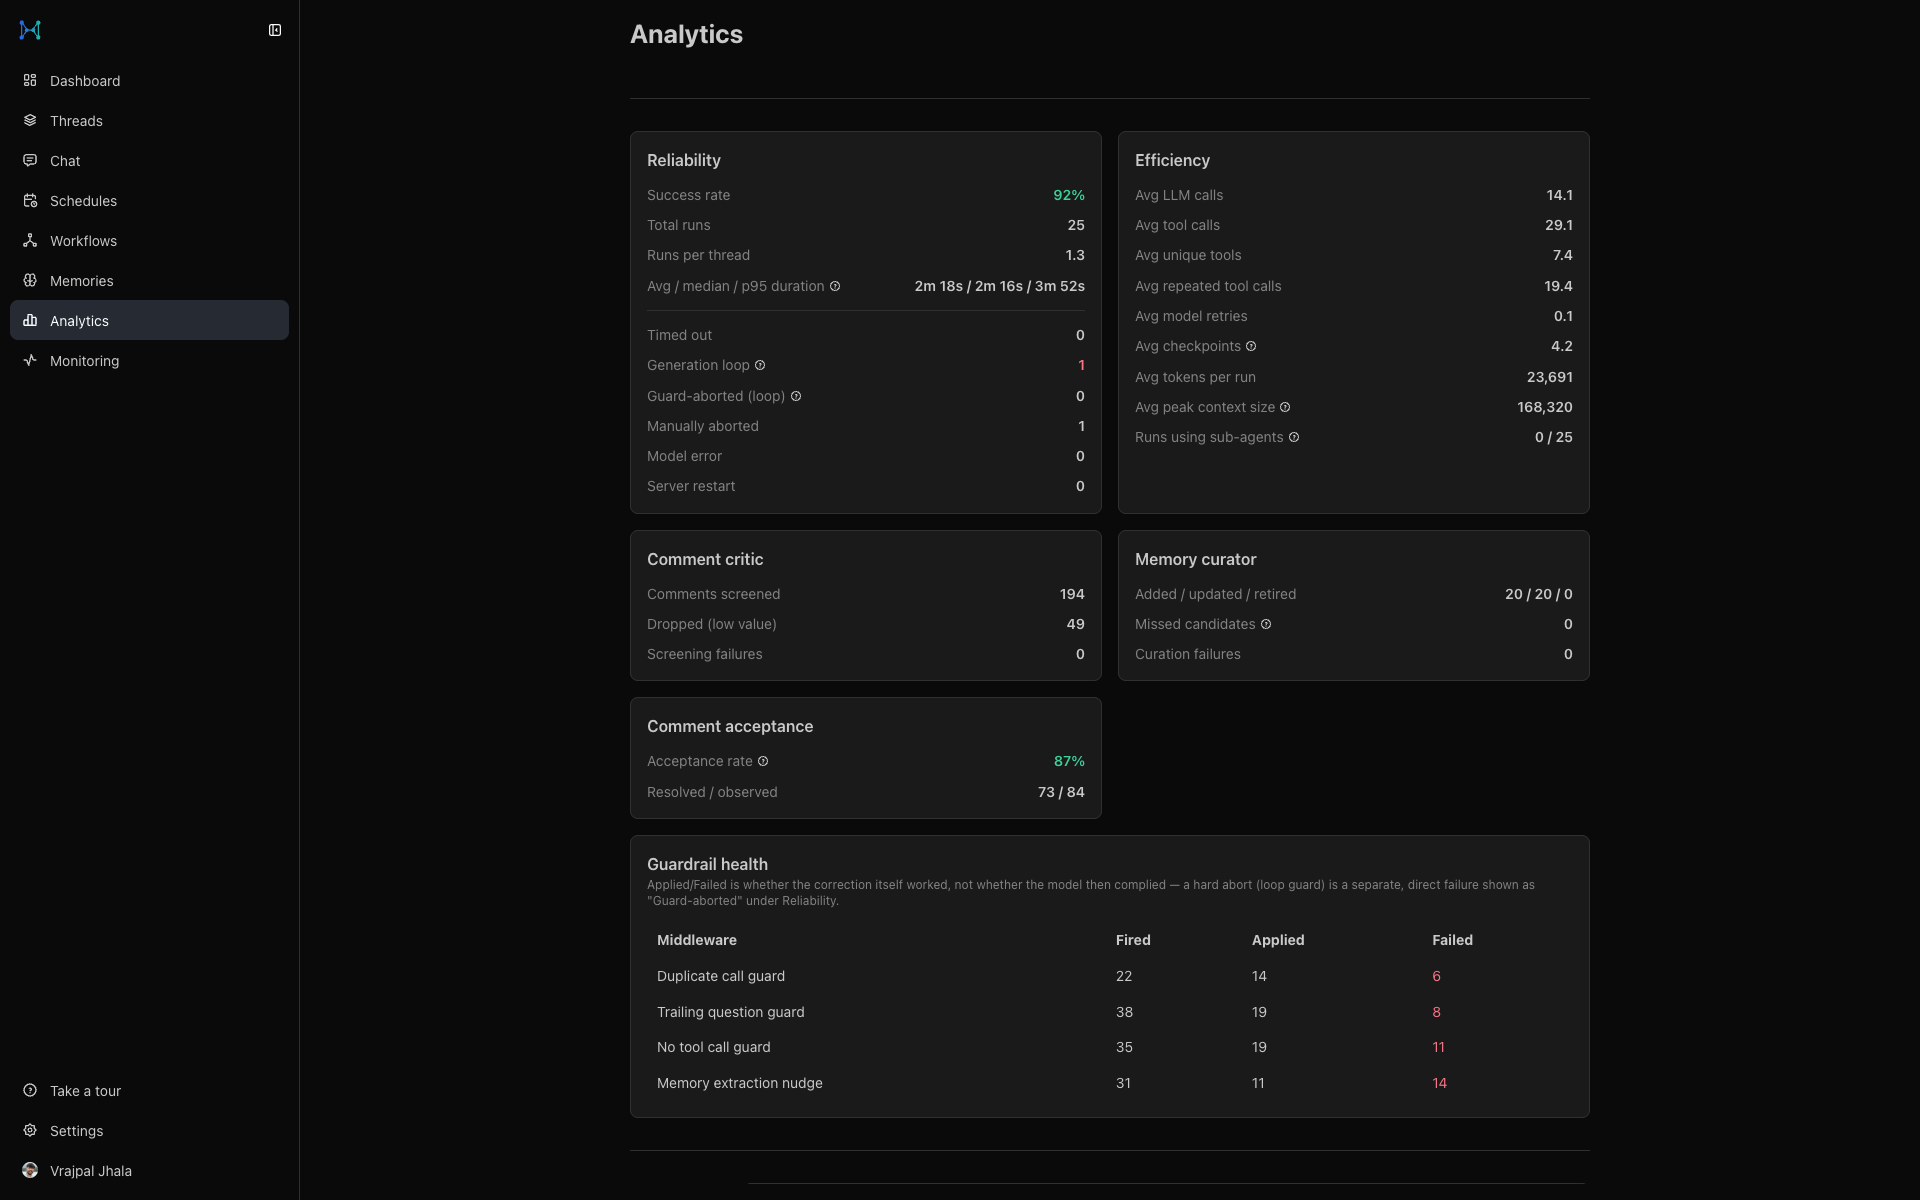
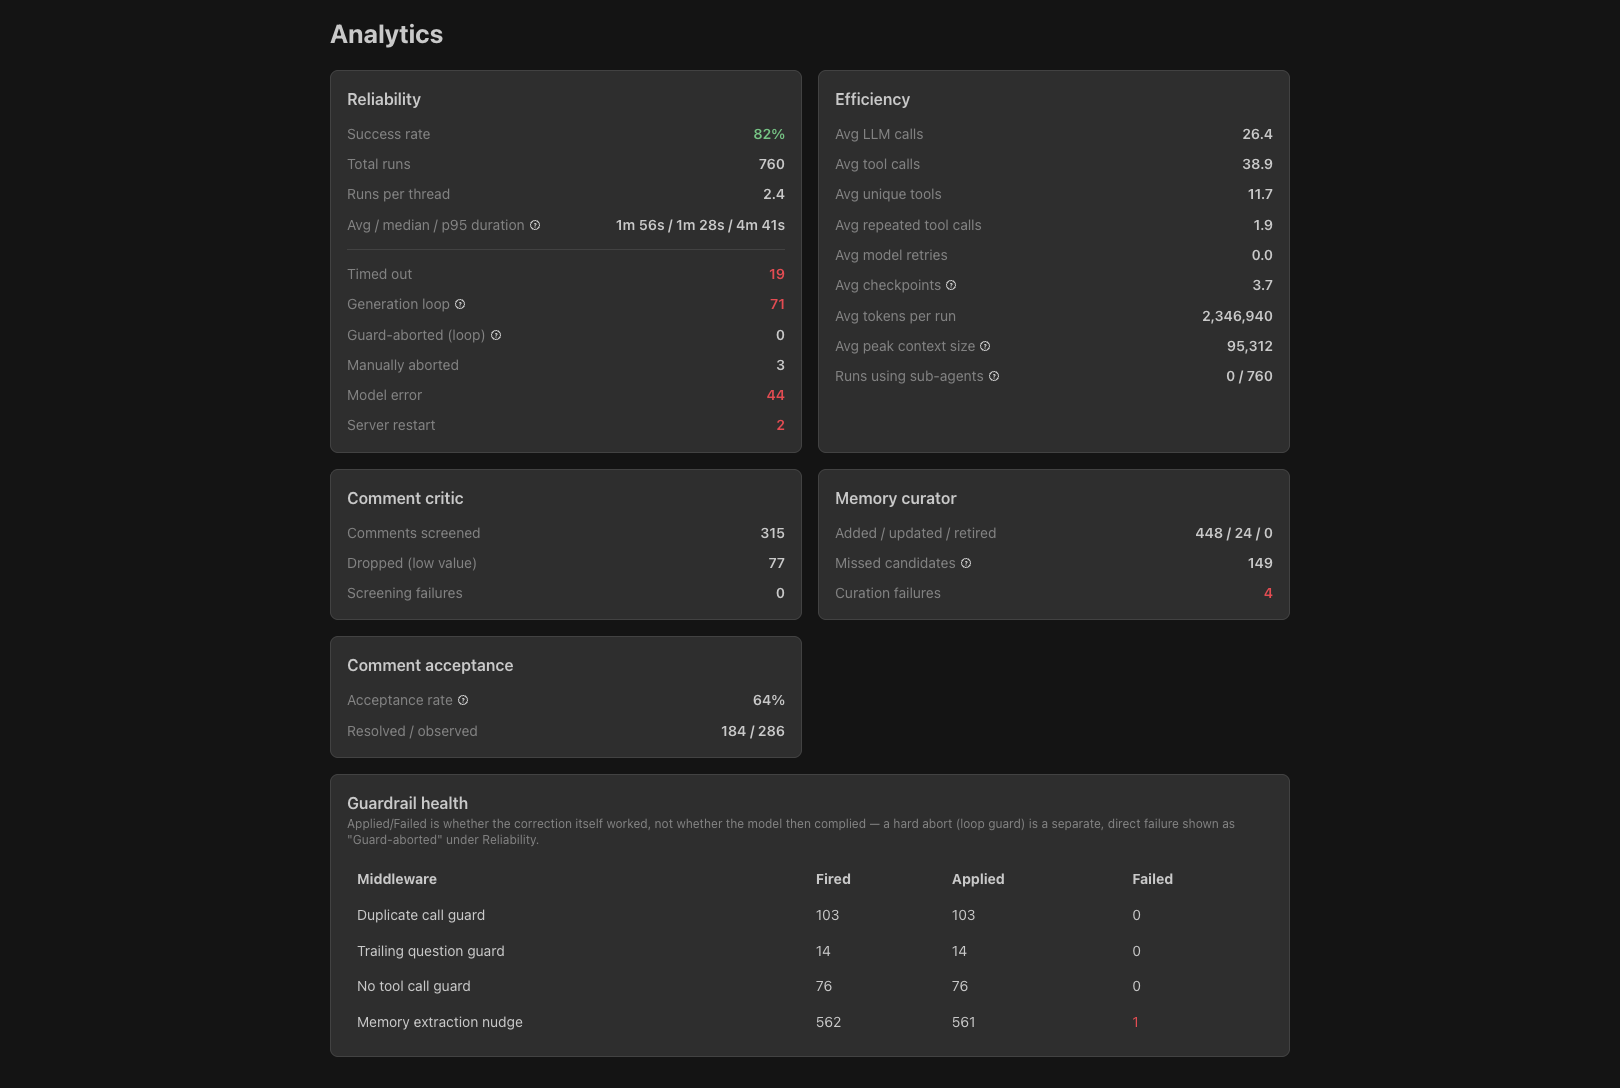
docs: reposition product copy and refresh screenshots

diff --git a/frontend/index.html b/frontend/index.html
@@ -4,7 +4,7 @@
     <meta charset="UTF-8" />
     <meta name="viewport" content="width=device-width, initial-scale=1.0" />
     <link rel="icon" type="image/svg+xml" href="/favicon.svg" />
-    <title>langgraph-harness - Engineering Context Platform</title>
+    <title>langgraph-harness - AI Coding Agent Platform for GitLab</title>
   </head>
   <body>
     <div id="root"></div>

diff --git a/frontend/src/pages/login/index.tsx b/frontend/src/pages/login/index.tsx
@@ -56,7 +56,7 @@ const LoginPage = () => {
         </div>
         <Stack align="center" gap={4}>
           <Title order={1} className="login-page__title">
-            The engineering context platform for GitLab
+            The AI coding agent platform for GitLab
           </Title>
           <Text
             c="dimmed"

diff --git a/docs/.vitepress/theme/components/Screencast.vue b/docs/.vitepress/theme/components/Screencast.vue
@@ -91,6 +91,7 @@ function formatTime(seconds: number) {
       v-show="started"
       ref="videoEl"
       :src="src"
+      :aria-label="alt ?? 'Screencast'"
       preload="none"
       class="screencast-media screencast-media--video"
       @click="togglePlay"

diff --git a/docs/index.md b/docs/index.md
@@ -3,8 +3,8 @@ layout: home
 
 hero:
   name: langgraph-harness
-  text: The engineering context platform for GitLab
-  tagline: Reviews merge requests, resolves issues autonomously, and chats with full project context — remembering what matters so every run builds on the last.
+  text: AI coding agent platform for GitLab
+  tagline: Self-hosted, built with LangGraph. Reviews merge requests, resolves issues autonomously, and chats with full project context — remembering what matters so every run builds on the last.
   image:
     src: /logo.svg
     alt: langgraph-harness
@@ -14,9 +14,6 @@ hero:
     - theme: brand
       text: Get Started
       link: /guide/getting-started
-    - theme: alt
-      text: Features
-      link: /features
     - theme: alt
       text: View on GitHub
       link: https://github.com/vrajpal-jhala/langgraph-harness
@@ -68,7 +65,7 @@ npm run dev
   </div>
   <div class="browser-frame">
     <div class="browser-frame-bar"><span></span><span></span><span></span></div>
-    <img :src="withBase('/screenshots/analytics-overview.png')" alt="Analytics overview dashboard" loading="lazy" />
+    <img :src="withBase('/screenshots/analytics-overview.png')" alt="Real production analytics dashboard, Sept 2026 snapshot" loading="lazy" />
   </div>
 </section>
 
@@ -117,16 +114,16 @@ npm run dev
     </div>
     <div class="landing-workflow-stage">
       <div class="landing-workflow-panel" id="landing-panel-review">
-        <video src="https://cdn.jsdelivr.net/gh/vrajpal-jhala/langgraph-harness-media@main/mr-review-workflow-preview.mp4" poster="https://cdn.jsdelivr.net/gh/vrajpal-jhala/langgraph-harness-media@main/mr-review-workflow-preview.webp" class="landing-workflow-video" autoplay loop muted playsinline></video>
+        <video src="https://cdn.jsdelivr.net/gh/vrajpal-jhala/langgraph-harness-media@main/mr-review-workflow-preview.mp4" poster="https://cdn.jsdelivr.net/gh/vrajpal-jhala/langgraph-harness-media@main/mr-review-workflow-preview.webp" class="landing-workflow-video" aria-label="Demo: MR Review workflow" autoplay loop muted playsinline></video>
       </div>
       <div class="landing-workflow-panel" id="landing-panel-issue">
-        <video src="https://cdn.jsdelivr.net/gh/vrajpal-jhala/langgraph-harness-media@main/issue-resolve-workflow-preview.mp4" poster="https://cdn.jsdelivr.net/gh/vrajpal-jhala/langgraph-harness-media@main/issue-resolve-workflow-preview.webp" class="landing-workflow-video" autoplay loop muted playsinline></video>
+        <video src="https://cdn.jsdelivr.net/gh/vrajpal-jhala/langgraph-harness-media@main/issue-resolve-workflow-preview.mp4" poster="https://cdn.jsdelivr.net/gh/vrajpal-jhala/langgraph-harness-media@main/issue-resolve-workflow-preview.webp" class="landing-workflow-video" aria-label="Demo: Issue Resolution workflow" autoplay loop muted playsinline></video>
       </div>
       <div class="landing-workflow-panel" id="landing-panel-task">
-        <video src="https://cdn.jsdelivr.net/gh/vrajpal-jhala/langgraph-harness-media@main/task-resolve-workflow-preview.mp4" poster="https://cdn.jsdelivr.net/gh/vrajpal-jhala/langgraph-harness-media@main/task-resolve-workflow-preview.webp" class="landing-workflow-video" autoplay loop muted playsinline></video>
+        <video src="https://cdn.jsdelivr.net/gh/vrajpal-jhala/langgraph-harness-media@main/task-resolve-workflow-preview.mp4" poster="https://cdn.jsdelivr.net/gh/vrajpal-jhala/langgraph-harness-media@main/task-resolve-workflow-preview.webp" class="landing-workflow-video" aria-label="Demo: Task Resolution workflow" autoplay loop muted playsinline></video>
       </div>
       <div class="landing-workflow-panel" id="landing-panel-chat">
-        <video src="https://cdn.jsdelivr.net/gh/vrajpal-jhala/langgraph-harness-media@main/chat-workflow-preview.mp4" poster="https://cdn.jsdelivr.net/gh/vrajpal-jhala/langgraph-harness-media@main/chat-workflow-preview.webp" class="landing-workflow-video" autoplay loop muted playsinline></video>
+        <video src="https://cdn.jsdelivr.net/gh/vrajpal-jhala/langgraph-harness-media@main/chat-workflow-preview.mp4" poster="https://cdn.jsdelivr.net/gh/vrajpal-jhala/langgraph-harness-media@main/chat-workflow-preview.webp" class="landing-workflow-video" aria-label="Demo: Chat workflow" autoplay loop muted playsinline></video>
       </div>
     </div>
   </div>

diff --git a/README.md b/README.md
@@ -4,9 +4,11 @@
 
 # langgraph-harness
 
-**The engineering context platform for GitLab**
+**Self-hosted AI coding agent platform for GitLab, built with LangGraph**
 
 Reviews merge requests, resolves issues autonomously, and chats with full project context — remembering what matters so every run builds on the last.
+
+In active production use since mid-2026 — 979 reviews, 64% comment acceptance rate (Sept 2026, [see snapshot](#screenshots)).
 
 [![License: MIT](https://img.shields.io/badge/license-MIT-blue.svg)](LICENSE)
 [![Node](https://img.shields.io/badge/node-22%2B-339933?logo=node.js&logoColor=white)](package.json)
@@ -14,7 +16,7 @@ Reviews merge requests, resolves issues autonomously, and chats with full projec
 
 [Docs](https://vrajpal-jhala.github.io/langgraph-harness/) · [Getting Started](https://vrajpal-jhala.github.io/langgraph-harness/guide/getting-started) · [Features](https://vrajpal-jhala.github.io/langgraph-harness/features) · [Screenshots](https://vrajpal-jhala.github.io/langgraph-harness/screenshots) · [Screencasts](https://vrajpal-jhala.github.io/langgraph-harness/screencasts)
 
-<img src="docs/public/hero.gif" width="900" alt="Agent resolving an issue end-to-end" />
+<img src="docs/public/hero.gif" width="900" alt="Demo: agent resolving an issue end-to-end" />
 
 </div>
 
@@ -27,16 +29,17 @@ Reviews merge requests, resolves issues autonomously, and chats with full projec
 Four harnesses, one shared foundation:
 
 - 🔍 **MR Review** — fires on webhook events, reads the diff, drafts comments, publishes them. No polling, no manual trigger.
-- 🛠 **Issue Resolution** — assign an issue and get a sandboxed agent that opens a draft MR and keeps responding to follow-up comments on the same branch.
-- 💬 **Chat** — an interactive, GitLab-aware assistant with real tool access: GitLab data, a headless browser, its own review/chat history.
-- 🛡 **Guardrails & quality control** — every drafted comment is screened before it posts; a run that misbehaves (repeats a call, ends on a question, skips a check) gets caught and corrected mid-run, not after the fact.
+- 🛠 **Issue Resolution** — assign an issue and get an agent that runs inside its own Kata Containers VM (a dedicated guest kernel per sandbox, not just syscall interception), opens a draft MR, and keeps responding to follow-up comments on the same branch.
+- 💬 **Chat** — an interactive, GitLab-aware assistant with real tool access: GitLab data, a headless browser, its own review/chat history; sensitive tool calls pause for explicit human approval before running.
+- 🛡 **Guardrails & quality control** — every drafted comment is screened before it posts; a run that misbehaves (repeats a call, loops, ends on a question, skips a check) gets caught and corrected mid-run — backed by persistent checkpoints, so a run resumes instead of restarting from scratch.
 
 Full breakdown: [Features](https://vrajpal-jhala.github.io/langgraph-harness/features) · [Architecture](https://vrajpal-jhala.github.io/langgraph-harness/architecture)
 
 ## Screenshots
 
 <div align="center">
-<img src="docs/public/screenshots/thread-detail.png" width="720" alt="Thread detail view showing a review run" />
+<img src="docs/public/screenshots/analytics-overview.png" width="720" alt="Real production analytics, Sept 2026 snapshot: 979 reviews, 64% comment acceptance rate over 30 days" />
+<img src="docs/public/screenshots/analytics-detail.png" width="720" alt="Real production analytics detail, Sept 2026 snapshot: reliability, efficiency, and guardrail health" />
 </div>
 
 More in the [screenshots gallery](https://vrajpal-jhala.github.io/langgraph-harness/screenshots).
@@ -47,7 +50,7 @@ More in the [screenshots gallery](https://vrajpal-jhala.github.io/langgraph-harn
 - **Backend** — Elysia API server running a LangGraph agent with persistent checkpoints
 - **Agent** — Multi-provider LLM (OpenRouter, Ollama, or sglang) with GitLab MCP tools and skill-based workflows
 - **Queue** — BullMQ; debounced re-reviews, capped concurrency, live queue state in the UI
-- **Memory** — durable, project-scoped facts learned across reviews; personal memory in Chat
+- **Memory** — context engineering for GitLab: durable, project-scoped facts learned across reviews; personal memory in Chat
 
 ## Quick Start
 

diff --git a/docs/features.md b/docs/features.md
@@ -34,7 +34,7 @@ Every guardrail is a _backstop_, not the primary correctness mechanism — the s
 
 ## Memory
 
-As the agent works, it flags durable, project-specific facts — conventions, recurring false positives, team decisions — which a curator pass dedups and stores per project, seeding every future review of that project. Chat has its own personal memories, saved and recalled directly by the model as durable facts about the user across conversations.
+Context engineering for GitLab: as the agent works, it flags durable, project-specific facts — conventions, recurring false positives, team decisions — which a curator pass dedups and stores per project, seeding every future review of that project. Chat has its own personal memories, saved and recalled directly by the model as durable facts about the user across conversations.
 
 ## Scheduling
 

diff --git a/docs/screenshots.md b/docs/screenshots.md
@@ -14,7 +14,7 @@ A closer look at the interface across every workflow.
 
 ![Threads](/screenshots/threads.png)
 
-## A real review, start to finish
+## How a review plays out, start to finish
 
 The agent fetches the diff, drafts and publishes comments, and posts a final summary — all visible in the run timeline.
 
@@ -39,6 +39,8 @@ The agent fetches the diff, drafts and publishes comments, and posts a final sum
 ![Memories](/screenshots/memories.png)
 
 ## Analytics
+
+Production dashboard, Sept 2026 snapshot.
 
 ![Analytics overview](/screenshots/analytics-overview.png)
 
